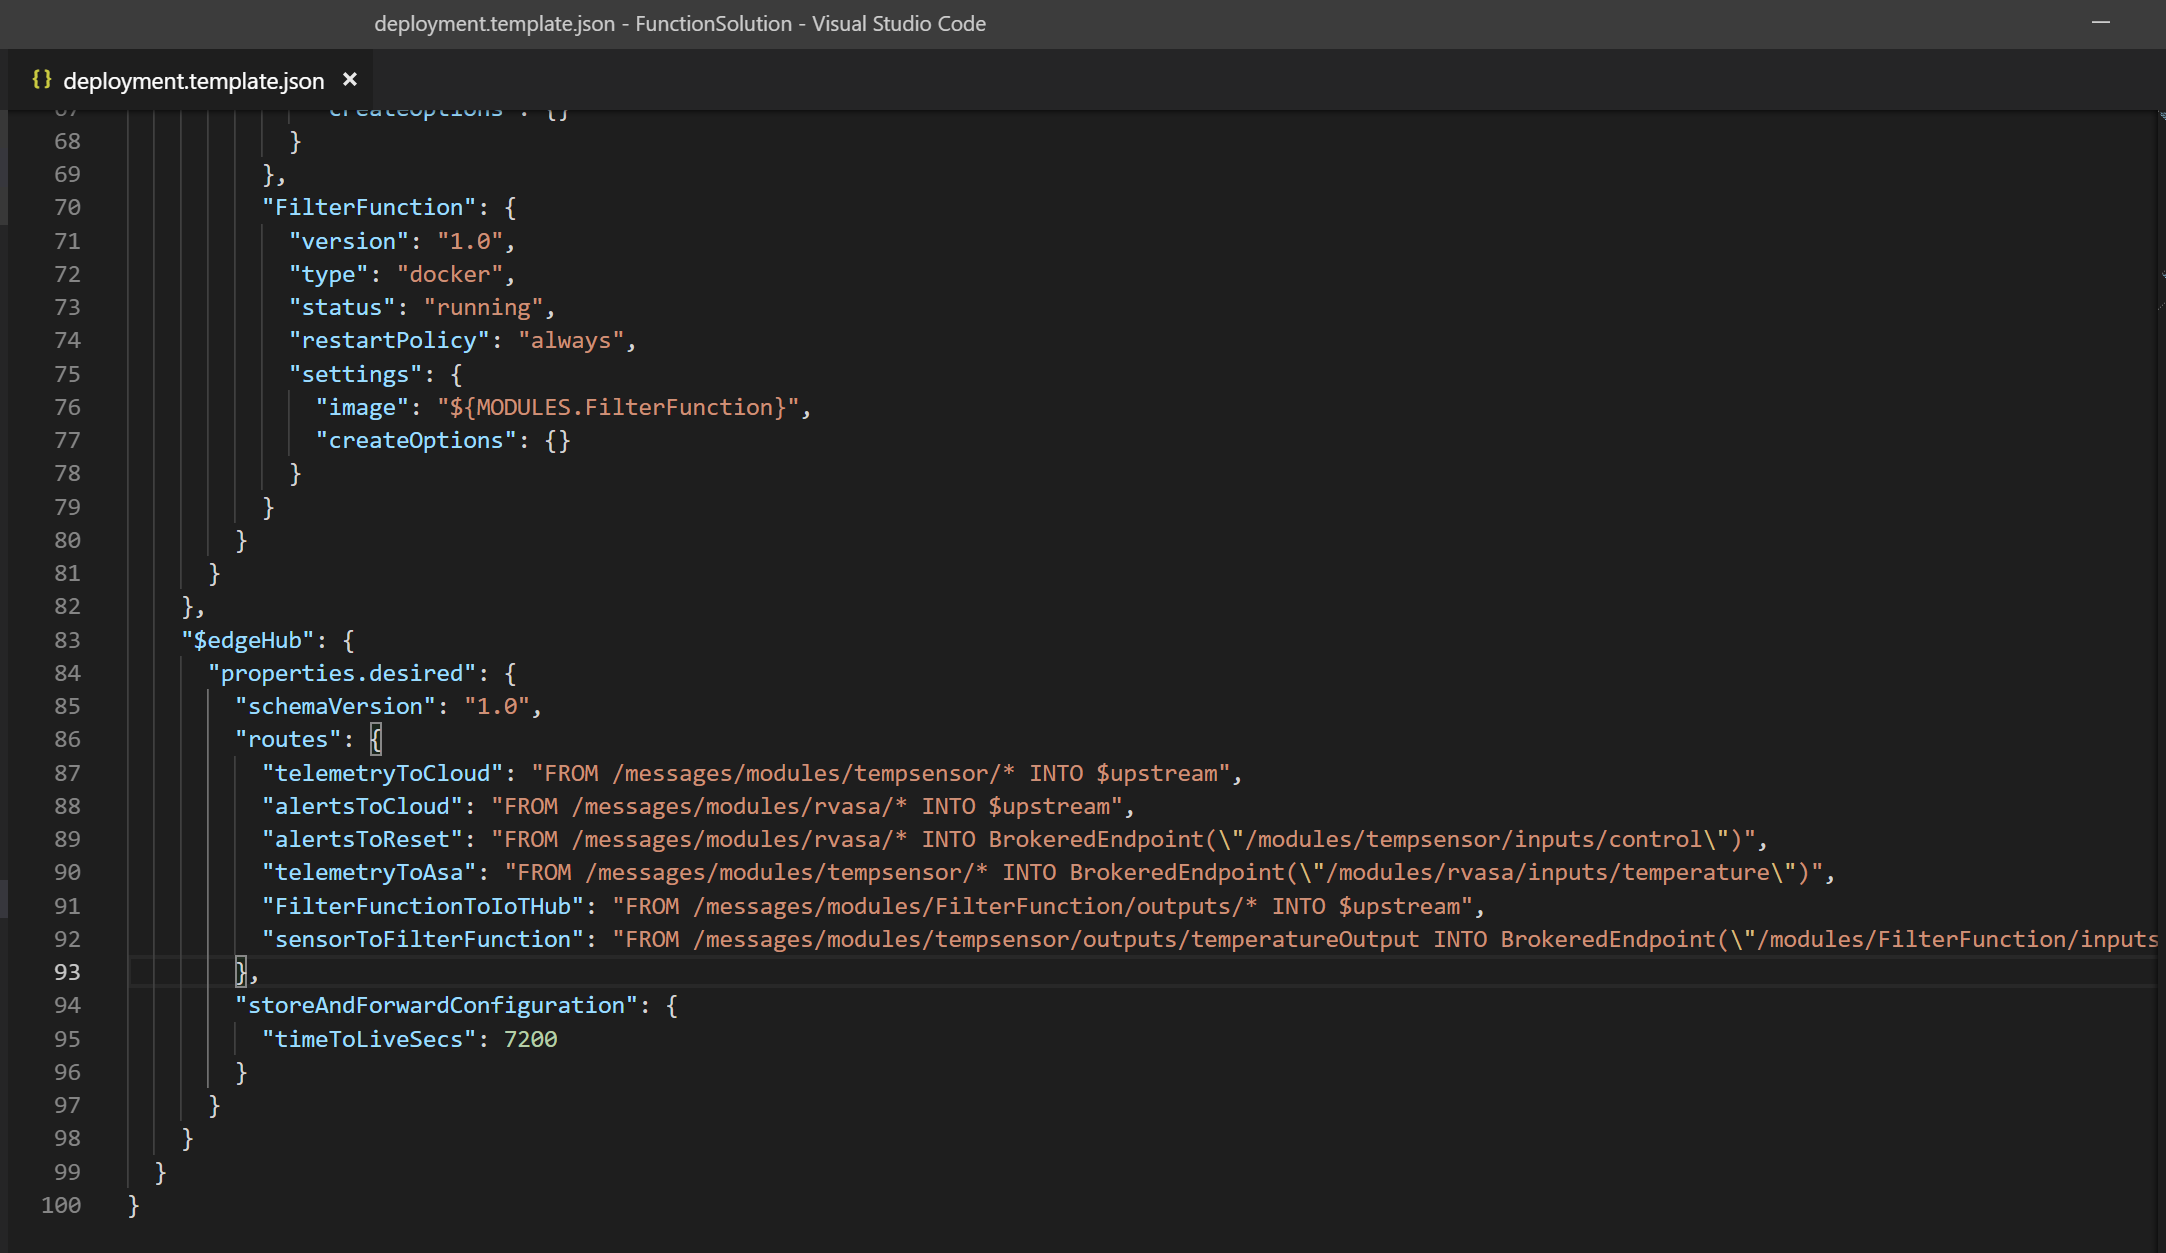
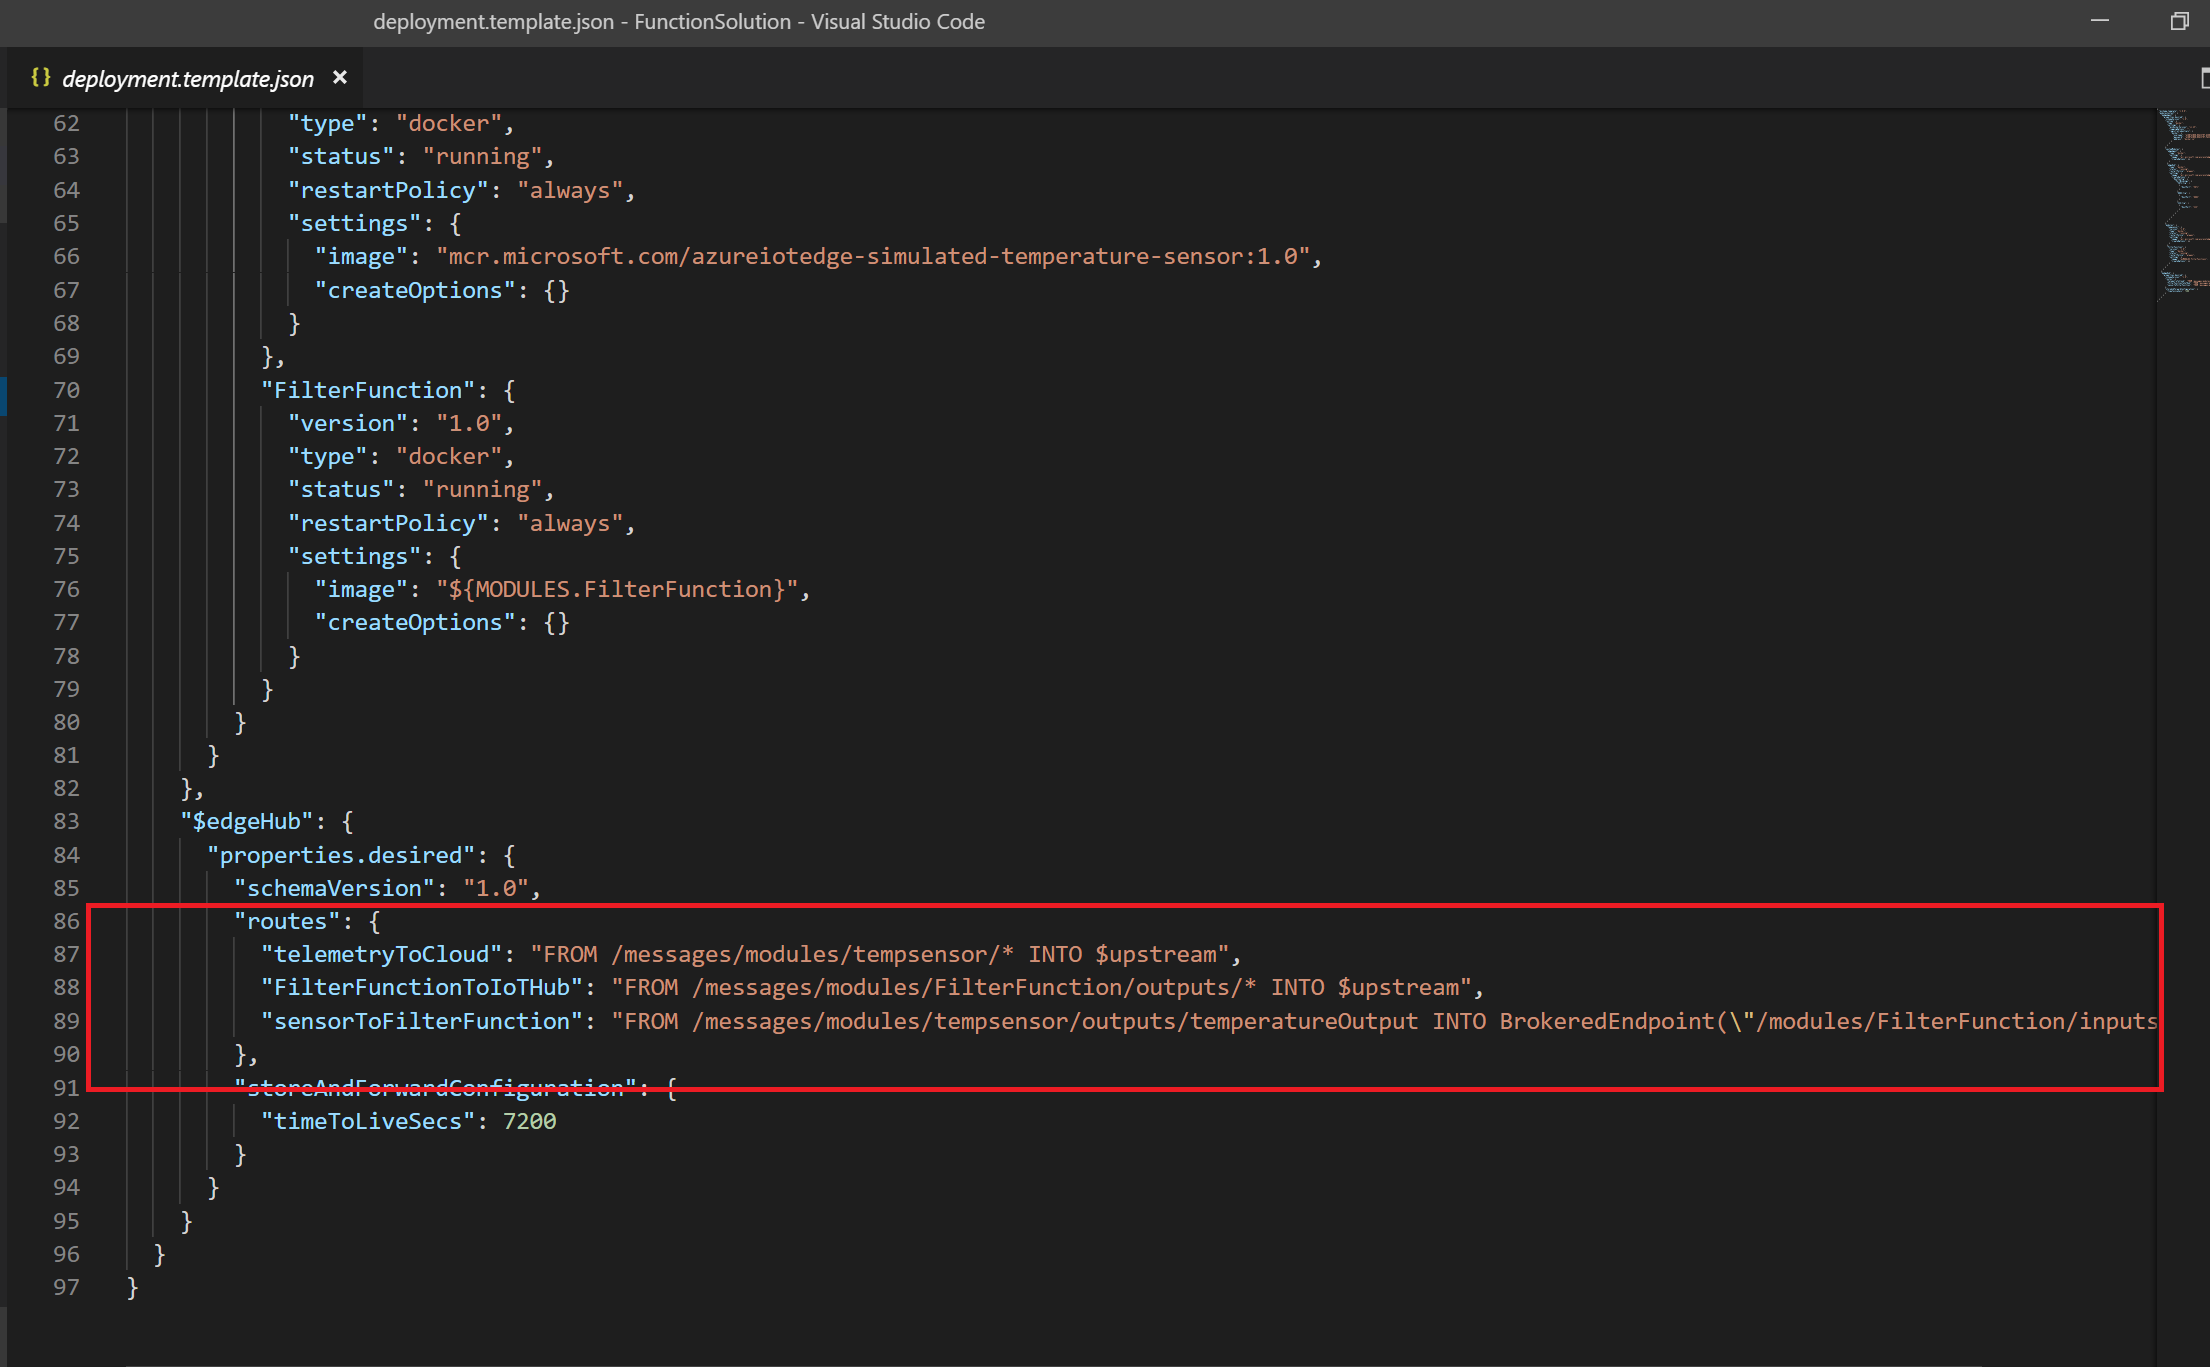
updates to filterfunction

diff --git a/functionmodule/readme.md b/functionmodule/readme.md
@@ -235,18 +235,19 @@ The Azure IoT Edge extension for Visual Studio Code that you installed provides 
     {
         "routes": {
         "telemetryToCloud": "FROM /messages/modules/tempsensor/* INTO $upstream",
-        "alertsToCloud": "FROM /messages/modules/rvasa/* INTO $upstream",
-        "alertsToReset": "FROM /messages/modules/rvasa/* INTO BrokeredEndpoint(\"/modules/tempsensor/inputs/control\")",
-        "telemetryToAsa": "FROM /messages/modules/tempsensor/* INTO BrokeredEndpoint(\"/modules/rvasa/inputs/temperature\")",
         "FilterFunctionToIoTHub": "FROM /messages/modules/FilterFunction/outputs/* INTO $upstream",
         "sensorToFilterFunction": "FROM /messages/modules/tempsensor/outputs/temperatureOutput INTO BrokeredEndpoint(\"/modules/FilterFunction/inputs/input1\")"
         }
     }
     ```
+    
+    ![Routes](images/23_tempsensor.png)
+
+    This replaces the existing route which takes the output of the **tempsensor** module and sends it to **\$upstream** (which is the IoT Hub in the cloud). The new routes take the output of **tempsensor** and routes it to the **FilterFunction** and then takes the output from **FilterFunction** and routes it to **$upstream** .
 
     ![Routes](images/16_filterfunctionroutes.png)
 
-    This replaces the existing route which takes the output of the **tempsensor** module and sends it to **\$upstream** (which is the IoT Hub in the cloud). The new routes take the output of **tempsensor** and routes it to the **FilterFunction** and then takes the output from **FilterFunction** and routes it to **$upstream** .
+    Also change the tempsensor module name from tempSensor to tempsensor. It is case sensitive.
 
 16. Open the **.env** file in your IoT Edge solution workspace. 
 
@@ -282,48 +283,43 @@ Visual Studio Code outputs a success message when your container image is pushed
 
     The **Repository** blade will open. In the Tags section, you should see the **0.0.1-amd64** tag. This tag indicates the version and platform of the image that you built. These values are set in the **module.json** file in the FilterFunction folder.
 
+
+    ![Filter Function Image](images/18_filterfunction_containerregistry.png)
+
 ### Deploy and Run the Solution
 
 You can use the Azure portal to deploy your function module to an IoT Edge device like you did in the quickstarts. You can also deploy and monitor modules from within Visual Studio Code. The following sections use the Azure IoT Edge extension for VS Code that was listed in the prerequisites. Install the extension now, if you didn't already.
 
-1. In Visual Studio Code, open the Command Palette by pressing **CONTROL + SHIFT + P** and enter **Azure: Sign in**
+1. In Visual Studio Code, open the Command Palette by pressing **CONTROL + SHIFT + P** and enter **Azure IoT Hub: Select IoT Hub**.
 
-    In the filtered list of commands, select **Azure: Sign in**.
+2. Select the subscription that has your IoT hub.
 
-    A notification will appear.
+3. Select the IoT hub that you want to access.
 
-2. On the notification, click **Copy & Open**.
+4. In the VS Code explorer, expand the Azure IoT Hub Devices section.
 
-    A code will be copied into the clipboard and a web browser will open and display the login page.
+    ![Filter Function Image](images/19_edge_device_list.png)
 
-3. In the web browser, under **Code**, paste the device code.
 
-    The web page will automatically check the code and will determin that Visual Studio Code is the source.
+5. Right-click the name of your IoT Edge device, and then click **Create Deployment for single device**.
 
-4. On the web page, click **Continue** and login to Azure.
+6. In the **Open** dialog, browse to the solution folder that contains the FilterFunction. 
 
-    Once the login succeeds, you may close the web page. Visual Studio Code is now logged in. You will see a message in the Visual Studio Code statusbar `Azure: <your username>`. 
+7. Open the **config** folder, select the **deployment.amd64.json** file and then click **Select Edge Deployment Manifest**.
 
-5. In Visual Studio Code, open the Command Palette by pressing **CONTROL + SHIFT + P** and enter **Azure IoT Hub: Select IoT Hub**.
+    ![Filter Function Image](images/20_deployment_json.png)
 
-6. Select the subscription that has your IoT hub.
+    ![Filter Function Image](images/21_deployment_succeeded.png)
 
-7. Select the IoT hub that you want to access.
 
-8. In the VS Code explorer, expand the Azure IoT Hub Devices section.
-
-9. Right-click the name of your IoT Edge device, and then click **Create Deployment for single device**.
-
-10. In the **Open** dialog, browse to the solution folder that contains the CSharpFunction. 
-
-11. Open the **config** folder, select the **deployment.amd64.json** file and then click **Select Edge Deployment Manifest**.
-
-12. Refresh the **Azure IoT Hub Devices** section. You should see the new `FilterFunction` running along with the `tempsensor` module and the `$edgeAgent` and `$edgeHub`.
+8. Refresh the **Azure IoT Hub Devices** section. You should see the new `FilterFunction` running along with the `tempsensor` module and the `$edgeAgent` and `$edgeHub`.
 
     It may take a few moments for the new modules to show up. Your IoT Edge device has to retrieve its new deployment information from IoT Hub, start the new containers, and then report the status back to IoT Hub.
 
-13. To see all of the messages that arrive at your IoT hub, open the Command Palette by pressing **CONTROL + SHIFT + P** and enter **Azure IoT Hub: Start Monitoring D2C Message**.
+    ![Filter Function Image](images/22_devicedeployments.png)
 
-14. To filter the view to see all of the messages that arrive at your IoT hub from a specific device, right-click the device in the Azure IoT Hub Devices section and select **Start Monitoring D2C Messages**.
+9.  To see all of the messages that arrive at your IoT hub, open the Command Palette by pressing **CONTROL + SHIFT + P** and enter **Azure IoT Hub: Start Monitoring D2C Message**.
 
-15. To stop monitoring messages, open the Command Palette by pressing **CONTROL + SHIFT + P** and enter **Azure IoT Hub: Stop monitoring D2C message**.
+10. To filter the view to see all of the messages that arrive at your IoT hub from a specific device, right-click the device in the Azure IoT Hub Devices section and select **Start Monitoring D2C Messages**.
+
+11. To stop monitoring messages, open the Command Palette by pressing **CONTROL + SHIFT + P** and enter **Azure IoT Hub: Stop monitoring D2C message**.
